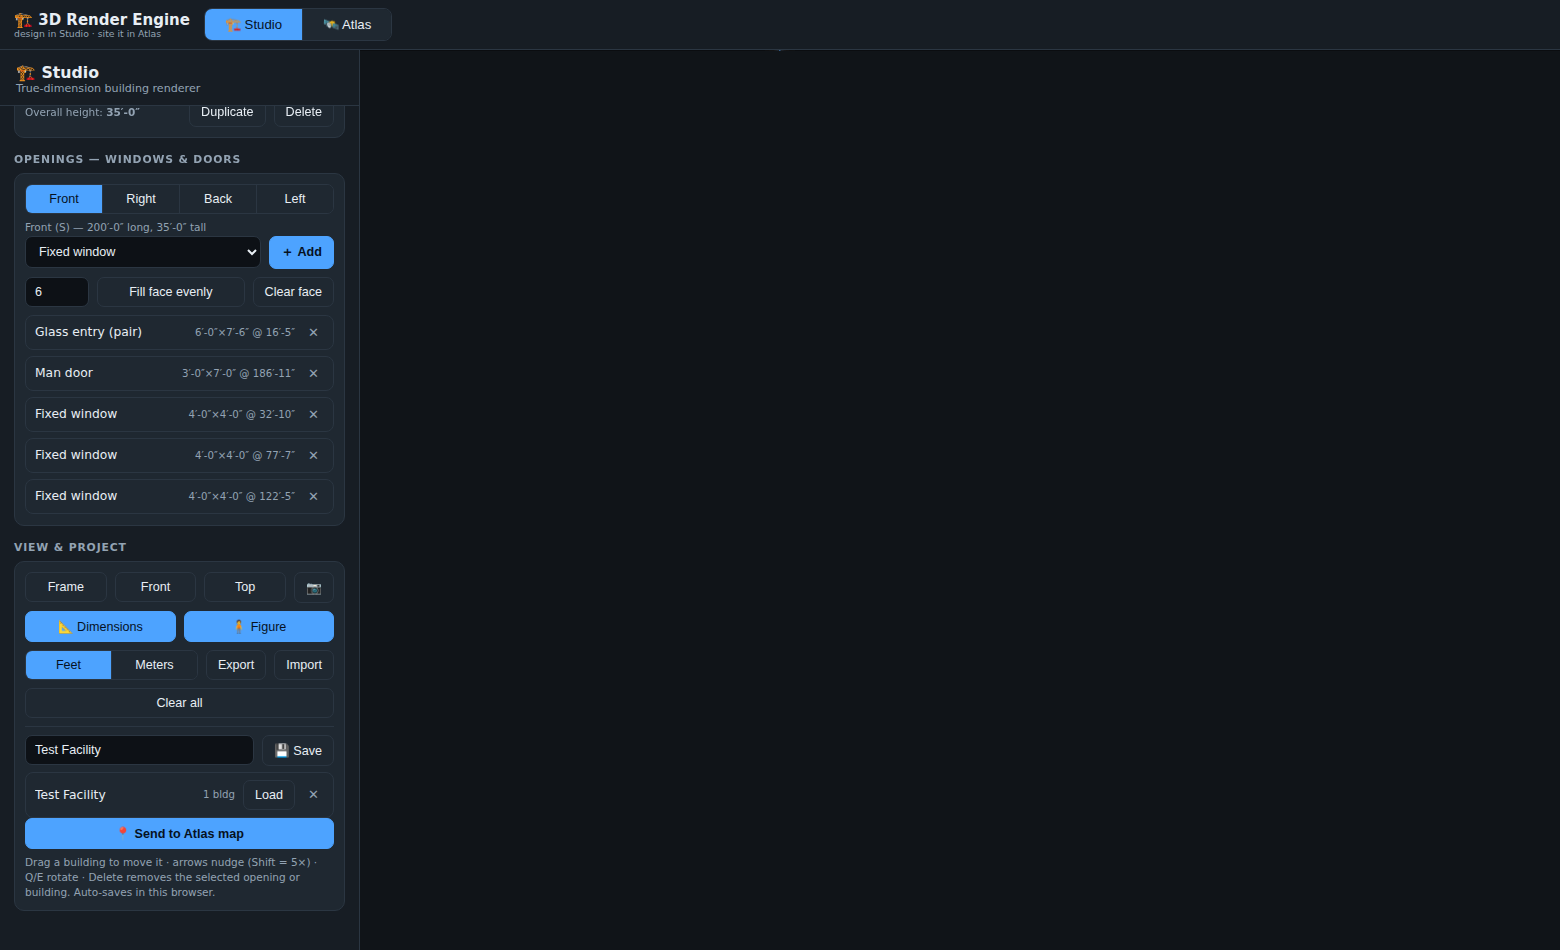
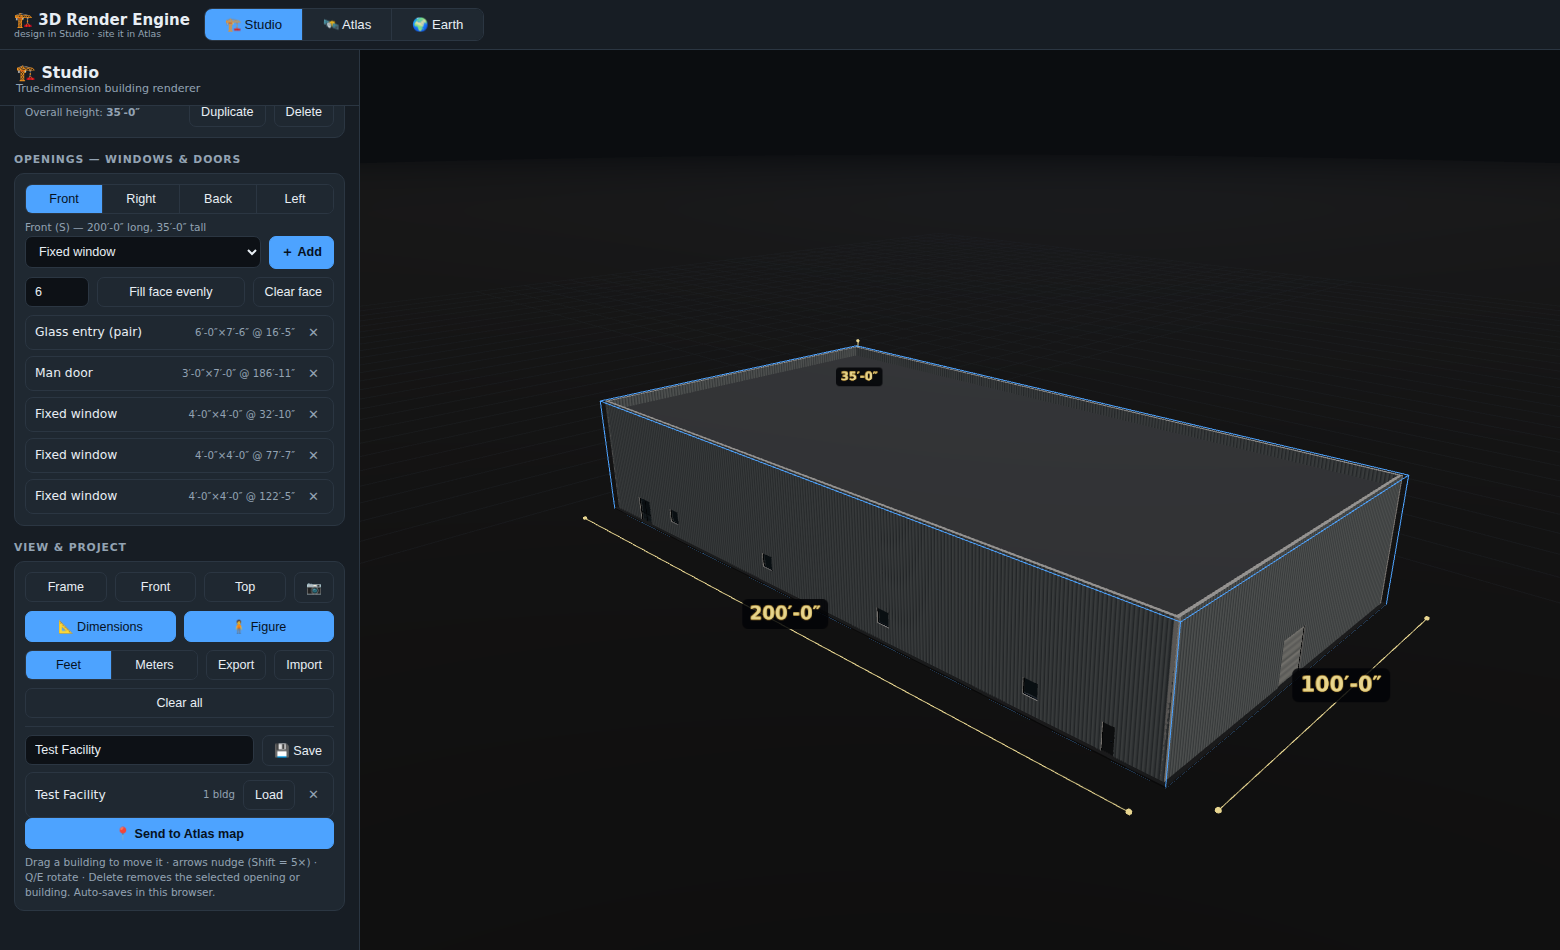
Fix black Studio viewport; add Earth tab (Google photorealistic 3D)
The stylesheet merge dropped the #canvasHolder sizing rules, leaving the
Studio three.js viewport at zero size on the unified page — restore them
and add a headless pixel-brightness regression check so a black viewport
can never pass tests again.

New 🌍 Earth tab: CesiumJS (lazy-loaded, ~5 MB only when used) streaming
Google Photorealistic 3D Tiles — Google Earth's photogrammetry — around
placed Studio projects, which render as clamped-to-ground extrusions
with site labels. Requires the user's own Google Maps Platform key
(free tier), entered once in-app with step-by-step instructions and
stored only in the browser; graceful setup/error states without one.
Shared geodesy + key storage move into js/bridge.js.

16 headless checks pass: viewport size + non-black pixels, full
design-save-place round trip, Earth setup state without a key, graceful
failure with an invalid one.

Claude-Session: https://claude.ai/code/session_01SBpWzn9qgSqb8GVtcsAs3m

diff --git a/js/earth.js b/js/earth.js
@@ -1,0 +1,207 @@
+/* =========================================================
+   Earth — Google-Earth-quality photorealistic 3D via
+   CesiumJS + Google Map Tiles API (Photorealistic 3D Tiles).
+   Cesium (~5 MB) loads lazily, and only once a key exists.
+   Placed Studio sites render here too.
+   ========================================================= */
+import * as bridge from "./bridge.js";
+
+const CESIUM_VERSION = "1.126.0";
+const CESIUM_BASE = `https://cdn.jsdelivr.net/npm/cesium@${CESIUM_VERSION}/Build/Cesium/`;
+const $ = id => document.getElementById(id);
+
+export function initEarth(shell) {
+  let viewer = null;
+  let tileset = null;
+  let booting = false;
+  let cesiumPromise = null;
+  let siteEntities = [];
+
+  /* ---------------- status / panels ---------------- */
+  function setStatus(msg, kind = "info") {
+    const el = $("earthStatus");
+    el.textContent = msg;
+    el.style.color = kind === "err" ? "var(--danger)" : kind === "ok" ? "var(--accent-2)" : "var(--muted)";
+  }
+  function updatePanels() {
+    const hasKey = !!bridge.getKeys().google;
+    $("earthSetup").style.display = hasKey ? "none" : "";
+    $("earthReady").style.display = hasKey ? "" : "none";
+  }
+
+  /* ---------------- cesium loader ---------------- */
+  function loadCesium() {
+    if (window.Cesium) return Promise.resolve();
+    if (cesiumPromise) return cesiumPromise;
+    cesiumPromise = new Promise((resolve, reject) => {
+      window.CESIUM_BASE_URL = CESIUM_BASE;
+      const css = document.createElement("link");
+      css.rel = "stylesheet";
+      css.href = CESIUM_BASE + "Widgets/widgets.css";
+      document.head.appendChild(css);
+      const s = document.createElement("script");
+      s.src = CESIUM_BASE + "Cesium.js";
+      s.onload = () => resolve();
+      s.onerror = () => { cesiumPromise = null; reject(new Error("cesium-load")); };
+      document.head.appendChild(s);
+    });
+    return cesiumPromise;
+  }
+
+  /* ---------------- boot ---------------- */
+  async function boot() {
+    const key = bridge.getKeys().google;
+    if (!key || viewer || booting) return;
+    booting = true;
+    setStatus("Loading the 3D engine…");
+    try {
+      await loadCesium();
+    } catch (e) {
+      booting = false;
+      setStatus("Couldn't load the 3D engine (network). Retry from the button below.", "err");
+      return;
+    }
+    const C = window.Cesium;
+    try {
+      viewer = new C.Viewer("earthContainer", {
+        baseLayer: false,
+        baseLayerPicker: false, geocoder: false, timeline: false, animation: false,
+        homeButton: false, sceneModePicker: false, navigationHelpButton: false,
+        fullscreenButton: false, infoBox: false, selectionIndicator: false,
+      });
+      viewer.scene.skyAtmosphere.show = true;
+      viewer.scene.globe.show = false; // photorealistic tiles replace the globe
+      setStatus("Streaming Google Photorealistic 3D Tiles…");
+      tileset = await C.Cesium3DTileset.fromUrl(
+        `https://tile.googleapis.com/v1/3dtiles/root.json?key=${encodeURIComponent(key)}`,
+        { showCreditsOnScreen: true }
+      );
+      viewer.scene.primitives.add(tileset);
+      setStatus("Photorealistic 3D active", "ok");
+      renderSites();
+      const sites = bridge.getSites();
+      if (sites.length) flyToSite(sites[0]);
+      else flyTo(-89.384, 43.0747, 900);
+    } catch (e) {
+      setStatus("Google rejected the key or the Map Tiles API isn't enabled on it. Double-check the key and that 'Map Tiles API' is enabled in Google Cloud, then Reload.", "err");
+      if (viewer) viewer.scene.globe.show = true; // plain globe fallback
+    } finally {
+      booting = false;
+    }
+  }
+
+  function flyTo(lng, lat, height = 700, duration = 2.5) {
+    if (!viewer) return;
+    const C = window.Cesium;
+    viewer.camera.flyTo({
+      destination: C.Cartesian3.fromDegrees(lng, lat - height / 220000, height),
+      orientation: { heading: 0, pitch: C.Math.toRadians(-32), roll: 0 },
+      duration,
+    });
+  }
+  function flyToSite(site) { flyTo(site.lng, site.lat, 500); }
+
+  /* ---------------- placed sites ---------------- */
+  function renderSites() {
+    if (!viewer) return;
+    const C = window.Cesium;
+    for (const e of siteEntities) viewer.entities.remove(e);
+    siteEntities = [];
+    for (const site of bridge.getSites()) {
+      for (const b of bridge.siteBuildingRings(site)) {
+        siteEntities.push(viewer.entities.add({
+          polygon: {
+            hierarchy: C.Cartesian3.fromDegreesArray(b.ring.flat()),
+            material: C.Color.fromCssColorString(b.color).withAlpha(0.95),
+            height: 0,
+            heightReference: C.HeightReference.CLAMP_TO_GROUND,
+            extrudedHeight: b.h,
+            extrudedHeightReference: C.HeightReference.RELATIVE_TO_GROUND,
+            outline: false,
+          },
+        }));
+      }
+      siteEntities.push(viewer.entities.add({
+        position: window.Cesium.Cartesian3.fromDegrees(site.lng, site.lat, 4),
+        label: {
+          text: site.name,
+          font: "600 13px system-ui",
+          fillColor: C.Color.fromCssColorString("#06121f"),
+          showBackground: true,
+          backgroundColor: C.Color.fromCssColorString("#4da3ff").withAlpha(0.95),
+          backgroundPadding: new C.Cartesian2(7, 4),
+          heightReference: C.HeightReference.CLAMP_TO_GROUND,
+          verticalOrigin: C.VerticalOrigin.BOTTOM,
+          disableDepthTestDistance: Number.POSITIVE_INFINITY,
+        },
+      }));
+    }
+    renderSiteList();
+  }
+  function renderSiteList() {
+    const holder = $("earthSiteList");
+    holder.innerHTML = "";
+    for (const site of bridge.getSites()) {
+      const el = document.createElement("div");
+      el.className = "lyr";
+      el.innerHTML = `<div class="row"><span class="name" style="cursor:pointer"></span><span class="meta"></span></div>`;
+      el.querySelector(".name").textContent = site.name;
+      el.querySelector(".meta").textContent = `${site.buildings.length} bldg${site.buildings.length === 1 ? "" : "s"}`;
+      el.querySelector(".name").addEventListener("click", () => flyToSite(site));
+      holder.appendChild(el);
+    }
+  }
+
+  /* ---------------- panel wiring ---------------- */
+  $("earthKeySaveBtn").addEventListener("click", () => {
+    const key = $("earthKeyInput").value.trim();
+    if (!key) { shell.toast("Paste your Google Maps Platform API key first"); return; }
+    bridge.setKeys({ google: key });
+    $("earthKeyInput").value = "";
+    updatePanels();
+    shell.toast("Key saved — loading Google Earth-quality 3D…");
+    boot();
+  });
+  $("earthReloadBtn").addEventListener("click", () => {
+    if (viewer) { viewer.destroy(); viewer = null; tileset = null; siteEntities = []; }
+    boot();
+  });
+  $("earthKeyClearBtn").addEventListener("click", () => {
+    bridge.setKeys({ google: "" });
+    if (viewer) { viewer.destroy(); viewer = null; tileset = null; siteEntities = []; }
+    updatePanels();
+    setStatus("Key removed.");
+  });
+
+  $("earthSearchBtn").addEventListener("click", earthSearch);
+  $("earthSearchBox").addEventListener("keydown", e => { if (e.key === "Enter") earthSearch(); });
+  async function earthSearch() {
+    const q = $("earthSearchBox").value.trim();
+    if (!q) return;
+    const m = q.match(/^\s*(-?\d+(?:\.\d+)?)\s*,\s*(-?\d+(?:\.\d+)?)\s*$/);
+    if (m) { flyTo(parseFloat(m[2]), parseFloat(m[1]), 700); return; }
+    try {
+      const res = await fetch(`https://photon.komoot.io/api/?q=${encodeURIComponent(q)}&limit=1`);
+      const data = await res.json();
+      const f = data.features && data.features[0];
+      if (!f) { shell.toast("No results for that search"); return; }
+      flyTo(f.geometry.coordinates[0], f.geometry.coordinates[1], 700);
+      shell.toast(f.properties.name || "Here");
+    } catch (e) { shell.toast("Search failed — check your connection"); }
+  }
+
+  updatePanels();
+  setStatus(bridge.getKeys().google
+    ? "Ready — opening this tab streams the 3D tiles."
+    : "Paste a key to unlock photorealistic 3D.");
+
+  /* test hooks */
+  window.earth = { boot, renderSites, hasViewer: () => !!viewer };
+
+  return {
+    activate() {
+      if (!viewer && bridge.getKeys().google) boot();
+      else if (viewer) renderSites(); // pick up newly placed sites
+    },
+  };
+}

diff --git a/index.html b/index.html
@@ -23,6 +23,7 @@
   <div id="tabs">
     <button id="tabStudio" class="active">🏗 Studio</button>
     <button id="tabAtlas">🛰 Atlas</button>
+    <button id="tabEarth">🌍 Earth</button>
   </div>
   <div class="spacer"></div>
 </div>
@@ -299,6 +300,66 @@
 <div id="ctxMenu" style="display:none"></div>
 
 
+</div>
+
+<div id="earthRoot" class="mode-root" style="display:none">
+  <aside id="sidebarEarth">
+    <header>
+      <h1>🌍 Earth</h1>
+      <p>Google photorealistic 3D</p>
+    </header>
+    <div class="panels">
+      <div class="section">
+        <h2>Photorealistic 3D</h2>
+        <div class="card">
+          <p class="hint" id="earthStatus" style="margin:0 0 8px"></p>
+          <div id="earthSetup">
+            <p class="hint" style="margin-top:0">
+              This tab streams <b>Google's Photorealistic 3D Tiles</b> — the same
+              photogrammetry you see in Google Earth — around your placed projects.
+              It needs your own (free-tier) Google key once:
+            </p>
+            <p class="hint">
+              1. Go to <b>console.cloud.google.com</b> → create a project.<br>
+              2. Search “<b>Map Tiles API</b>” → Enable it.<br>
+              3. <b>APIs &amp; Services → Credentials → Create credentials → API key.</b><br>
+              4. Paste the key here — it stays in your browser only.
+            </p>
+            <div class="row">
+              <input type="text" id="earthKeyInput" class="grow" placeholder="Paste Google Maps API key…">
+              <button id="earthKeySaveBtn" class="active">Save</button>
+            </div>
+          </div>
+          <div id="earthReady" style="display:none">
+            <div class="row">
+              <button id="earthReloadBtn" class="grow">↻ Reload tiles</button>
+              <button id="earthKeyClearBtn">Remove key</button>
+            </div>
+          </div>
+        </div>
+      </div>
+
+      <div class="section">
+        <h2>Search</h2>
+        <div class="row">
+          <input type="text" id="earthSearchBox" class="grow" placeholder="Address, place, or lat, lng…">
+          <button id="earthSearchBtn">Go</button>
+        </div>
+      </div>
+
+      <div class="section">
+        <h2>Studio sites</h2>
+        <div id="earthSiteList"></div>
+        <p class="hint">Projects placed in the Atlas tab render here on the photorealistic ground. Click a name to fly to it. Move/rotate placements in Atlas.</p>
+      </div>
+
+      <div class="section">
+        <h2>Controls</h2>
+        <p class="hint">Left-drag pan · scroll zoom · Ctrl-drag (or middle-drag) tilt &amp; rotate. Imagery © Google.</p>
+      </div>
+    </div>
+  </aside>
+  <div id="earthContainer"></div>
 </div>
 
 <div id="toast"></div>

diff --git a/css/app.css b/css/app.css
@@ -12,9 +12,13 @@
 #tabs button + button { border-left: 1px solid var(--line); }
 #topbar .spacer { flex: 1; }
 .mode-root { position: absolute; top: var(--topbar-h); left: 0; right: 0; bottom: 0; }
+#canvasHolder { position: absolute; inset: 0 0 0 var(--sidebar-w); }
+#canvasHolder canvas { display: block; width: 100%; height: 100%; }
+#earthContainer { position: absolute; inset: 0 0 0 var(--sidebar-w); }
+#earthContainer .cesium-viewer, #earthContainer .cesium-widget, #earthContainer canvas { width: 100%; height: 100%; }
 #labRoot { --sidebar-w: 360px; }
 #mapRoot { --sidebar-w: 330px; }
-.mode-root .sidebar, .mode-root #sidebarStudio, .mode-root #sidebarAtlas {
+.mode-root .sidebar, .mode-root #sidebarStudio, .mode-root #sidebarAtlas, .mode-root #sidebarEarth {
   position: absolute; top: 0; left: 0; bottom: 0; width: var(--sidebar-w);
   background: var(--panel); border-right: 1px solid var(--line);
   display: flex; flex-direction: column; z-index: 10;
@@ -46,9 +50,9 @@ body {
   background: var(--panel); border-right: 1px solid var(--line);
   display: flex; flex-direction: column; z-index: 10;
 }
-#sidebarAtlas header { padding: 13px 16px 10px; border-bottom: 1px solid var(--line); position: relative; }
-#sidebarAtlas header h1 { font-size: 1.05rem; font-weight: 650; }
-#sidebarAtlas header p { font-size: .74rem; color: var(--muted); }
+#sidebarAtlas header, #sidebarEarth header { padding: 13px 16px 10px; border-bottom: 1px solid var(--line); position: relative; }
+#sidebarAtlas header h1, #sidebarEarth header h1 { font-size: 1.05rem; font-weight: 650; }
+#sidebarAtlas header p, #sidebarEarth header p { font-size: .74rem; color: var(--muted); }
 #sidebarAtlas header .back {
   position: absolute; top: 14px; right: 14px;
   color: var(--muted); font-size: .74rem; text-decoration: none;

diff --git a/js/bridge.js b/js/bridge.js
@@ -60,6 +60,40 @@ export function massing(buildings) {
   }));
 }
 
+/* ---------------- shared geodesy (Atlas + Earth) ---------------- */
+export function wrapLng(lng) { return ((lng % 360) + 540) % 360 - 180; }
+export function metersPerDegree(lat) {
+  const p = lat * Math.PI / 180;
+  return {
+    lat: 111132.92 - 559.82 * Math.cos(2 * p) + 1.175 * Math.cos(4 * p),
+    lng: 111412.84 * Math.cos(p) - 93.5 * Math.cos(3 * p),
+  };
+}
+export function siteToLngLat(x, z, site) {
+  const th = site.rot * Math.PI / 180;
+  const c = Math.cos(th), s = Math.sin(th);
+  const east = x * c + (-z) * s;
+  const north = -x * s + (-z) * c;
+  const m = metersPerDegree(site.lat);
+  return [wrapLng(site.lng + east / m.lng), site.lat + north / m.lat];
+}
+/* per-building footprint rings (lng/lat, closed) for a placed site */
+export function siteBuildingRings(site) {
+  return site.buildings.map(bd => {
+    const th = bd.rot * Math.PI / 180;
+    const c = Math.cos(th), s = Math.sin(th);
+    const ring = [[-bd.w / 2, -bd.d / 2], [bd.w / 2, -bd.d / 2], [bd.w / 2, bd.d / 2], [-bd.w / 2, bd.d / 2]]
+      .map(([lx, lz]) => siteToLngLat(bd.x + lx * c - lz * s, bd.z + lx * s + lz * c, site));
+    ring.push(ring[0]);
+    return { ring, h: bd.h, color: bd.color, name: bd.name };
+  });
+}
+
+/* ---------------- API keys ---------------- */
+const KEYS_KEY = "engine-keys-v1";
+export function getKeys() { return read(KEYS_KEY, {}); }
+export function setKeys(patch) { write(KEYS_KEY, { ...getKeys(), ...patch }); }
+
 /* ---------------- placed sites (Atlas) ---------------- */
 export function getSites() {
   const arr = read(SITES_KEY, []);

diff --git a/js/shell.js b/js/shell.js
@@ -5,11 +5,13 @@
    ========================================================= */
 import { initStudio } from "../lab/js/app.js";
 import { initAtlas } from "../map/js/app.js";
+import { initEarth } from "./earth.js";
 
 const $ = id => document.getElementById(id);
 
 let tab = "studio";
 let atlasApi = null;
+let earthApi = null;
 let pendingPlacement = null;
 
 let toastTimer = null;
@@ -40,8 +42,10 @@ function switchTab(next) {
   tab = next;
   $("tabStudio").classList.toggle("active", tab === "studio");
   $("tabAtlas").classList.toggle("active", tab === "atlas");
+  $("tabEarth").classList.toggle("active", tab === "earth");
   $("labRoot").style.display = tab === "studio" ? "" : "none";
   $("mapRoot").style.display = tab === "atlas" ? "" : "none";
+  $("earthRoot").style.display = tab === "earth" ? "" : "none";
   if (tab === "atlas") {
     if (!atlasApi) {
       atlasApi = initAtlas(shell);
@@ -52,11 +56,15 @@ function switchTab(next) {
       atlasApi.armPlacement(pendingPlacement);
       pendingPlacement = null;
     }
+  } else if (tab === "earth") {
+    if (!earthApi) earthApi = initEarth(shell);
+    earthApi.activate();
   }
 }
 
 $("tabStudio").addEventListener("click", () => switchTab("studio"));
 $("tabAtlas").addEventListener("click", () => switchTab("atlas"));
+$("tabEarth").addEventListener("click", () => switchTab("earth"));
 
 // a stray file drop must never navigate away, whichever tab is up
 ["dragover", "drop"].forEach(evt =>
